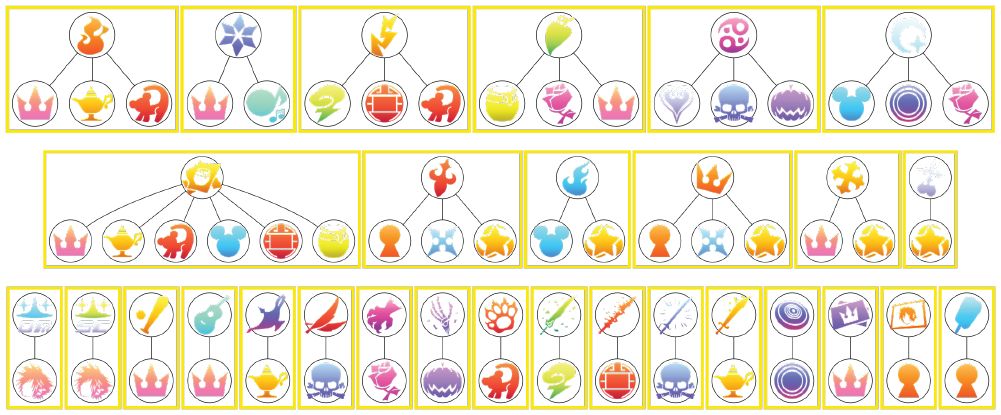
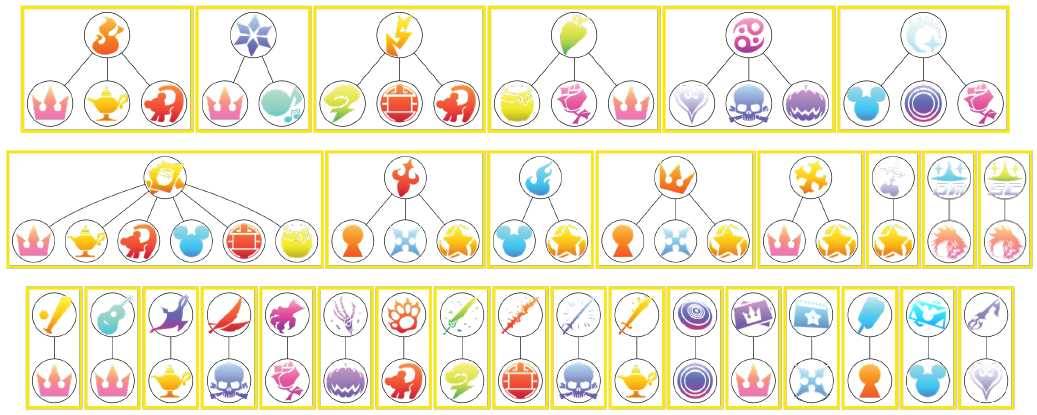
Update Path hints page for new visit unlocks

diff --git a/docs/hints/path/index.md b/docs/hints/path/index.md
@@ -3,9 +3,9 @@
 This hint system aims to leverage knowledge of where items are found in the original game to provide information about
 where proofs may reside. This system is loosely inspired by Path to Reward hints from Ocarina of Time Randomizer.
 
-As a baseline, the Shananas style tracking is in place, meaning that once you have collected all the hintable items in a
-world, the tracker will indicate the world's completion (with default settings, the world's number turns blue). As long
-as the world is not indicated as complete, there is something else "important" there.
+As a baseline, the Shananas style tracking is in place, meaning that once you have collected all the trackable items in
+a world, the tracker will indicate the world's completion (with default settings, the world's number turns blue). As
+long as the world is not indicated as complete, there is something else "important" there.
 
 Path hints make use of the Ansem Reports in a way to point you toward proof locations. When you collect an Ansem Report,
 a hint text will appear, telling you about zero to three proofs, and references a world. As an example, consider this
@@ -52,13 +52,13 @@ Feel free to save these onto your computer for reference.
 
 ## Notable Callouts
 
-* Simulated Twilight Town and Twilight Town share the same original items for purposes of the hints, except for the 
-  Picture and Ice Cream items that unlock Twilight Town's second and third visits respectively.
+* Simulated Twilight Town and Twilight Town share the same original items for purposes of the hints, except for their
+  respective visit unlock items.
 * Drive Forms' original items are the Drive Forms themselves, for purposes of the hints.
 * 100 Acre Wood includes Torn Pages as an original item, in addition to the worlds where the Torn Pages are normally
   located, for purposes of the hints.
 * The party member weapons used as keys for locking second visits are attributed to the world where that party member
   exists.
 * Puzzles/Synthesis don't have any original items for the hints.
-* The Ansem Reports, proofs, Unknown Disk, Olympus Stone, and Hades Cup Trophy do not belong to any particular locations
-  for purposes of the hints.
+* The Ansem Reports, Proofs, Promise Charm, Munny Pouches, Unknown Disk, Olympus Stone, and Hades Cup Trophy do not
+  belong to any particular locations for purposes of the hints.
